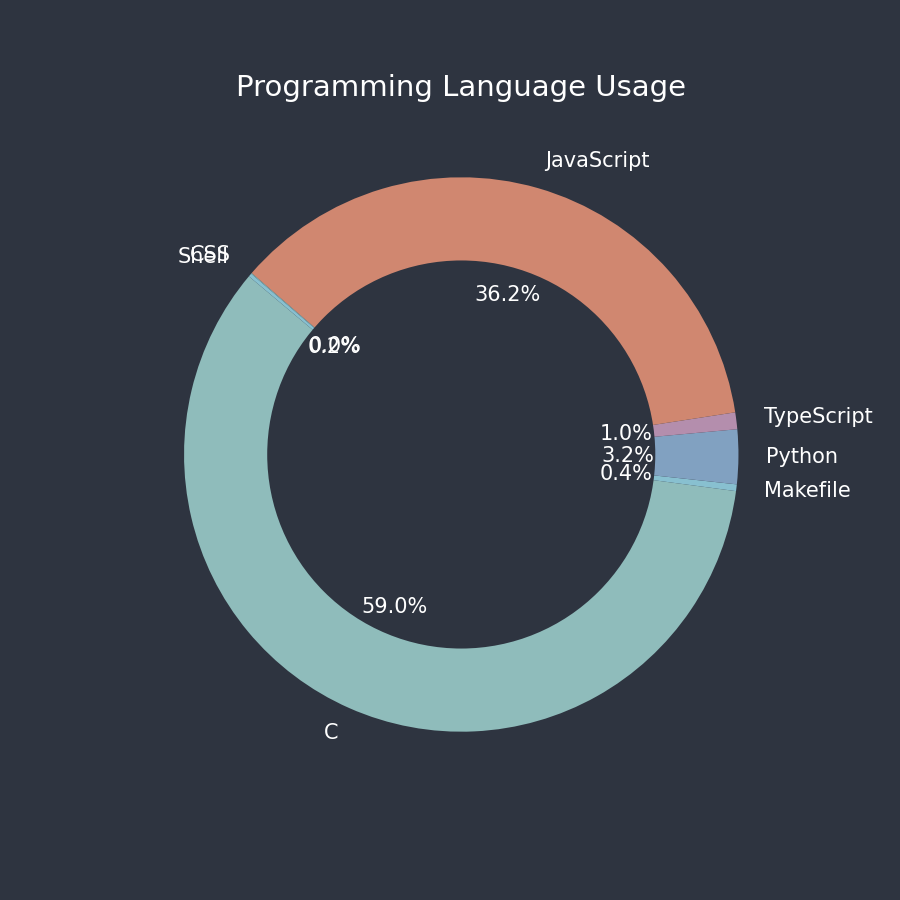
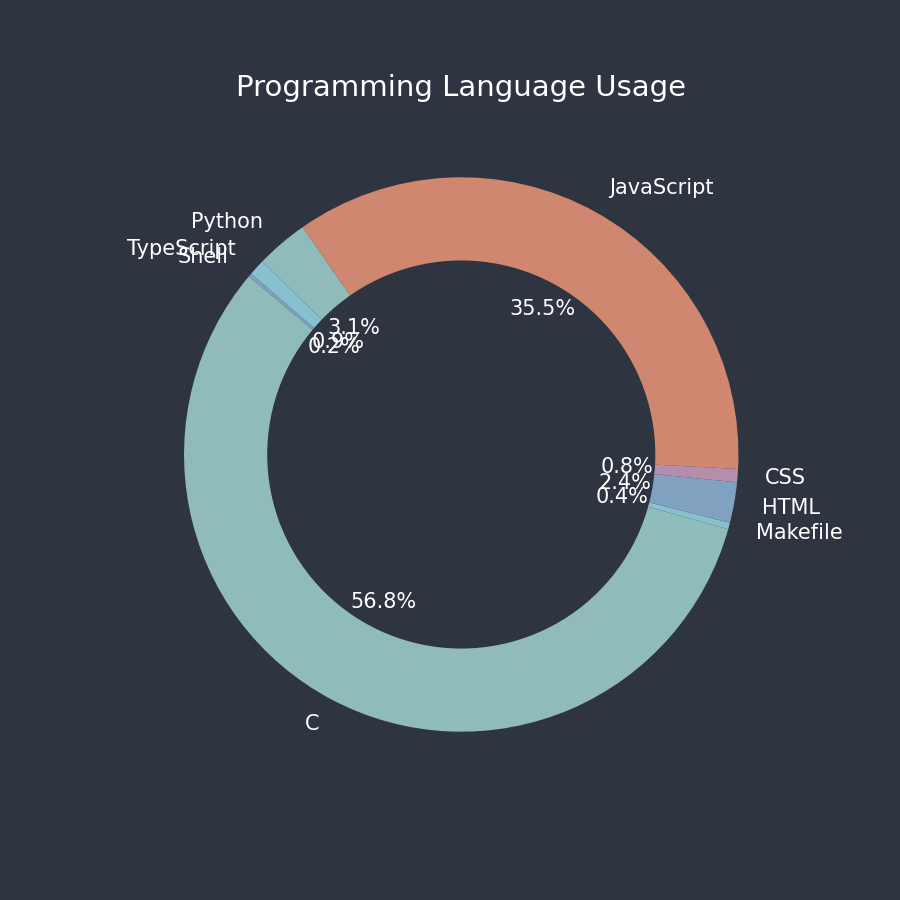
Update language usage graph in README

diff --git a/README.md b/README.md
@@ -1,3 +1,5 @@
+### Language Usage
+![Language Usage](language_usage_chart.png)
 
 <div id="header" align="center"><div id="header" align="center">
   <img src="https://i.giphy.com/media/v1.Y2lkPTc5MGI3NjExM2ZqM2N2MjRjcnptZ2NhcWRkYjE5ZXhqbjZ5Zmk2b3dvY3J1NXF5eiZlcD12MV9pbnRlcm5hbF9naWZfYnlfaWQmY3Q9Zw/Fgvl4kpB8mTRLmciii/giphy.gif" width="400"/>
